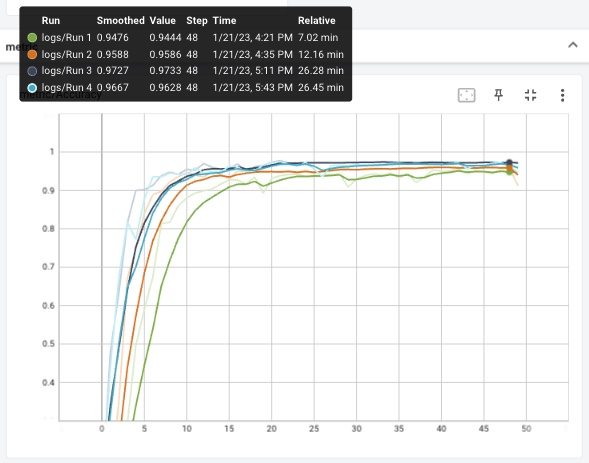
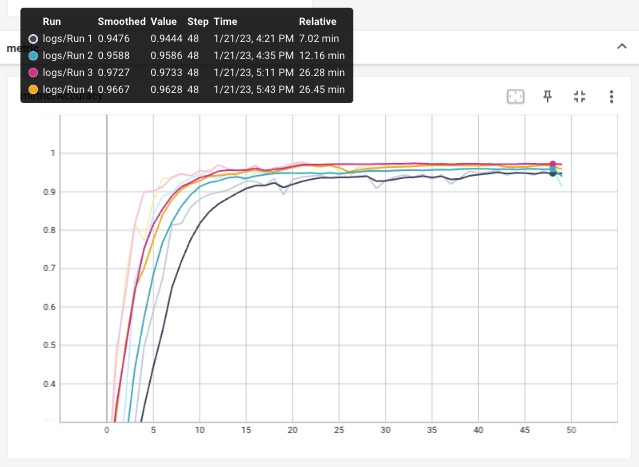
Aanscherper antwoorden en nieuwe visualisaties

diff --git a/reports/antwoorden.md b/reports/antwoorden.md
@@ -24,9 +24,10 @@ De keuze voor een relatief simpel neuraal netwerk met drie lagen ligt voor de ha
 
 ---
 ### <span style='background :yellow' > **Antwoord:**</span>
-- Input 13 is gelijk aan het aantal attributen en klopt;
-- H1 100: In de les is naar voren gekomen dat voor 10 classes, de filterinstelling rond de 100 zou moeten zijn. De keuze voor 100 lijkt dus in de goede richting te zijn. Om de stappen (filter x 2) tussen 8 t/m 512 te kunnen maken zou ik voor 128 (ipv 100) kiezen.
-- H2 10: Om deze beter te laten aansluiten met H1 en de Output zou ik deze op 64 of 32 zetten. 
+Analyse keuzes LinearConfig:
+- Input 13: Dit aantal is gelijk aan het aantal attributen en klopt;
+- H1 100: In de les is naar voren gekomen dat voor 10 classes, de filterinstelling rond de 100 zou moeten zijn. Ik zou persoonlijk kiezen voor 256 omdat het 20 classes betreft. Redenatie is 100 is geschikt voor 10, dus 20 voor 200. Daarnaast wil ik de stappen (filter x 2) tussen 8 t/m 512 kunnen maken, dus in plaats van 200 is 256 een logische keuze. De resultaten van de tussentijdse opdracht bevestigen deze keuze (256 heeft daar de beste resultaten gegeven).
+- H2 10: Om deze beter te laten aansluiten met H1 en de Output zou ik deze op 64 zetten. 
 - Output 20: Is gelijk aan het aantal classificaties (0 t/m 9 voor man en vrouw). Indien het alleen de cijfers betreft, zonder man/vrouw classificatie dan zou dit 10 moeten zijn. 
 - Dropout 0,5: Dit lijkt, voor een relatief kleine dataset, aan de hoge kant met 0,5 (= een verlies van de helft). Een acceptabele start van de dropout lijkt mij 0,2. 
 ---
@@ -38,7 +39,7 @@ Als je in de forward methode van het Linear model kijkt (in `tentamen/model.py`)
 
 ---
 ### <span style='background :yellow' > **Antwoord:** </span>
-Met de code bepaald men vanuit welke dimensie de mean wordt berekend, in dit geval vanuit de tweede dimensie. Door deze stap te nemen zoekt de collega aansluiting tussen de data en het simpele lineaire model. Zonder aansluiting tussen de data en het model, zal het model niet werken. 
+Met de code bepaald men vanuit welke dimensie de mean wordt berekend, in dit geval vanuit de tweede dimensie. Door deze stap te nemen zoekt de collega aansluiting tussen de data en het simpele lineaire model. Zonder aansluiting tussen de data en het model, zal het model veel verwerkingstijd nodig hebben of in het slechtste geval niet werken. 
 
 ---
 
@@ -65,11 +66,7 @@ Omdat jij de cursus Machine Learning hebt gevolgd kun jij hem uitstekend uitlegg
 
 ---
 ### <span style='background :yellow' > **Antwoord:** 
-Ik zou een model gebruiken geschikt voor sequentiële timeserie data, zoals text en spraak, en met het vermogen om waardes te onthouden, zoals een RNN of GRU model. Een GRU is relatief simpel ten opzichte van een LSTM en een LSTM is minder geschikt voor deze simpele dataset. Een losstand RNN model zou mogelijk problemen met het geheugen kunnen krijgen, maar de GRU variant lost dit op. In principe zijn alle genoemde modellen te gebruiken, echter lijkt in dit geval de GRU de beste optie te zijn.
-
-Het model bevat de volgende lagen:  
-- abc
-- abc
+Ik zou een model gebruiken geschikt voor sequentiële timeserie data, zoals text en spraak, en met het vermogen om waardes te onthouden, zoals een RNN, LSTM of GRU model. Een GRU is relatief simpel ten opzichte van een LSTM en een LSTM is minder geschikt voor deze simpele dataset. Een losstand RNN model zou mogelijk problemen met het geheugen kunnen krijgen, terwijl de GRU variant dit oplost. In principe zijn alle genoemde modellen te gebruiken, echter lijkt in dit geval de GRU de beste optie te zijn. Het GRU model bevat twee gates en een hidden state.
 
 ---
 
@@ -79,8 +76,9 @@ Het model bevat de volgende lagen:
 
 ---
 ### <span style='background :yellow' > **Antwoord:** </span>
+Voorgestelde instellingen GRU model:
 - Learning rate: Op basis van de uitkomsten tussentijdse opdracht is de instelling learning rate le-3 / 0,001 het beste gebleken voor de classificatie.
-- Filters hidden layers: 128 lijkt een mooie instelling om te starten. In de les is naar voren gekomen dat voor 10 classes, de filterinstelling rond de 100 zou moeten zijn. Om de stappen (filter x 2) tussen 8 t/m 512 te kunnen maken is voor 128 (ipv 100) gekozen.
+- Hidden size: 64 lijkt een mooie instelling om te starten. Dit ondanks dat bij vraag 1a is aangeven dat 256 hoogstwaarschijnlijk de beste resultaten geeft start ik bij 64, vervolgens 128 en werk naar 256 toe.
 - Loss function: Cross-Entropy-Loss, omdat deze passend is voor een classificatie.
 - Optimizer: Adam, omdat deze optimizer wordt gezien als een van de betere optimizers en minder parameters nodig heeft. Dit is ook gebleken uit de resultaten van de tussentijdse opdracht.
 - Num layers: Deze zou ik op 4 zetten zodat er voldoende lagen zijn om het model te trainen.
@@ -91,7 +89,7 @@ Het model bevat de volgende lagen:
 
 ---
 ### <span style='background :yellow' > **Antwoord:**</span>
-Zoals eigenlijk al aangegeven bij de beantwoording van eerdere vragen zou ik gaan voor een GRU model omdat deze geschikt is voor een timeserie classificatie en het mogelijke geheugen probleem oplost. De loss functie passend bij een classificatie is Cross-Entropy-Loss. Voor de learning rate is is gekozen voor le-3 / 0,001, mede door de resultaten uit de tussentijdse opdracht. De optimizer is adam, omdat deze als een van de betere optimizer wordt gezien. Dit is ook gebleken tijdens het experiment van de tussentijdse opdracht. De num_layers op 4 zodat er voldoende lagen zijn voor een juiste training.
+Zoals eigenlijk al aangegeven bij de beantwoording van eerdere vragen zou ik gaan voor een GRU model omdat deze geschikt is voor een timeserie classificatie en het mogelijke geheugen probleem oplost. De loss functie passend bij een classificatie is Cross-Entropy-Loss. Voor de learning rate is is gekozen voor le-3 / 0,001, mede door de resultaten uit de tussentijdse opdracht. De optimizer is adam, omdat deze als een van de betere optimizer wordt gezien. Dit is ook gebleken tijdens het experiment van de tussentijdse opdracht. De num_layers op 4 zodat er voldoende lagen zijn voor een juiste training. De hidden size start bij 64, echter is de verwachting dat 256 betere resultaten geeft.
 
 ---
 
@@ -111,14 +109,16 @@ De bestanden model.py, settings.py en 01_model_design.py zijn aangepast met het 
 
 ---
 ### <span style='background :yellow' > **Antwoord:** </span>
+Er zijn een viertal runs uitgevoerd, namelijk:
+
 **RUN 1:** Voor de eerste run is het model getraind met de volgende parameters: 
 - Input: 13.
-- Hidden: 64.
+- Hidden size: 64.
 - Output: 20.
 - Num_layers: 4.
 - Dropout: 0,2.
 
-**RUN 2:** Voor de tweede run is alleen de hidden size gewijzigd van 64 naar 128. De reden hiervoor is de input vanuit de les, dat voor 10 classes de filters rond de 100 moeten zijn (dus 128 voor een x 2 effect).
+**RUN 2:** Voor de tweede run is alleen de hidden size gewijzigd van 64 naar 128. De reden hiervoor is de input vanuit de les, dat voor 20 classes de filters rond de 200 moeten zijn (dus 256 voor een x 2 effect).
 
 **RUN 3 (1e poging):** Voor de derde run heb ik geprobeerd om de output op 10 te zetten omdat ik twijfel of de output 20 wel de juiste is (getal 0 t/m 9 voor man en vrouw (=20) -> of alleen 0 t/m 9 (=10)). Door de aanpassing van 20 naar 10 krijgt de training een foutmelding, wat impliceert dat 20 de juiste output is.
 
@@ -140,9 +140,14 @@ De bestanden model.py, settings.py en 01_model_design.py zijn aangepast met het 
     </figcaption>
   </p>
 </figure>
-TOELICHTING.
+In totaal zijn er vier runs uitgevoerd met de instellingen zoals bij de bovenstaande vraag aangegeven.
 
-### <span style='background :yellow' > **Antwoord:** </span>
+- Run 1: De accuratie is 0,9444. 
+- Run 2: De accuratie is 0,9586.
+- Run 3: De accuratie is 0,9733.
+- Run 4: De accuratie is
+
+---
 <figure>
   <p align = "center">
     <img src="img/gru_loss.png" style="width:100%">
